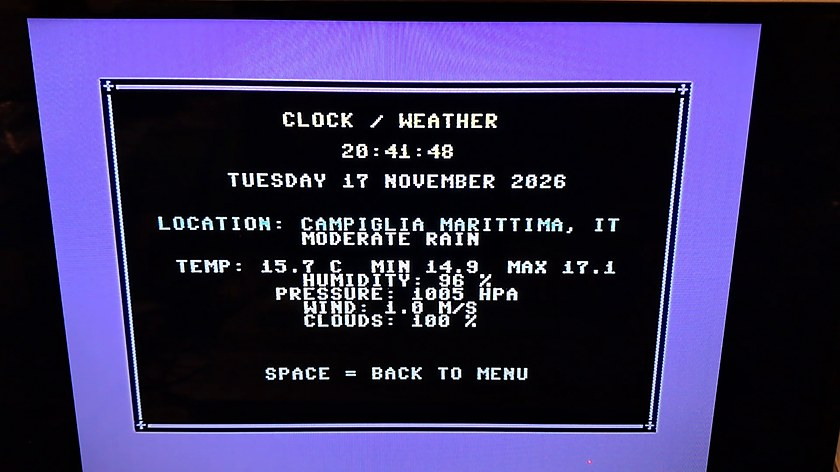
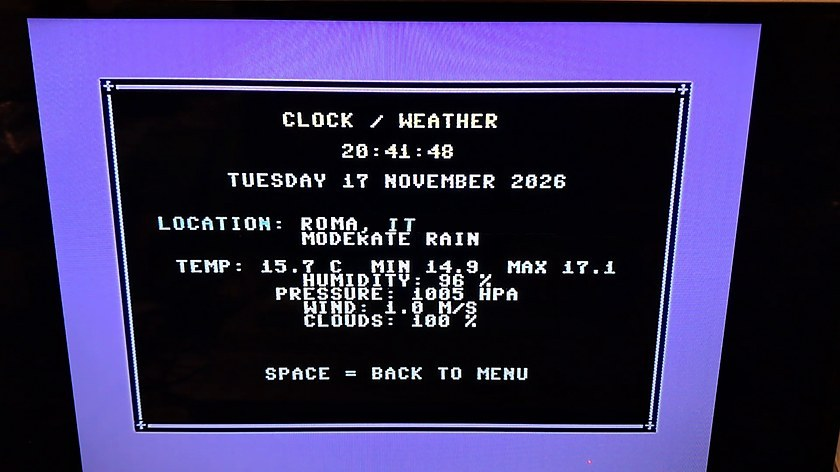
Keep the author's location out of the repository (#2)
lat/lon moved to secrets.h (openweatherLat/Lon) with a graceful skip when unset, secrets.example.h and README updated, weather screenshot city name replaced, PROJECT_STATE next steps refreshed.

Changed region(s): [[0.3405, 0.4449, 0.681, 0.5042], [0.7119, 0.4449, 0.7429, 0.5042]]

diff --git a/c64esp32Cart/secrets.example.h b/c64esp32Cart/secrets.example.h
@@ -1,7 +1,17 @@
 #pragma once
 
 // Copiare questo file in secrets.h e inserire i propri dati.
+// secrets.h NON va committato (e' in .gitignore).
+
+// --- WiFi (opzionale: senza WiFi il menu funziona, mancano solo NEWS/meteo)
 const char *ssid = "YOUR_WIFI_SSID";
 const char *password = "YOUR_WIFI_PASSWORD";
+
+// --- OpenWeather: https://openweathermap.org/api (piano Current Weather)
 String openweatherApiKey = "YOUR_OPENWEATHER_API_KEY";
+// Coordinate della localita' in gradi decimali (es. Roma: 41.9028, 12.4964)
+String openweatherLat = "xxxxx";
+String openweatherLon = "xxxxx";
+
+// --- NewsAPI: https://newsapi.org (serve solo per la fonte "NewsAPI")
 String newsApiKey = "YOUR_NEWSAPI_KEY";

diff --git a/PROJECT_STATE.md b/PROJECT_STATE.md
@@ -242,28 +242,38 @@ EPROM invia comunque il comando 112 appena possibile.
 ### EPROM bootstrap
 - `bootstrap.asm` produce `c64esp8kBOOT.bin` 8192 byte.
 - Il C64 parte dalla EPROM a `$8000` (CBM80).
-- `coldstart` inizializza; `warmstart` copia un loader di 344 byte
-  (`BOOT_LEN=$158`) a `$C000`.
+- `coldstart` inizializza; `warmstart` copia un loader di 338 byte
+  (`BOOT_LEN=$152`) a `$C000`.
 - Il loader:
   1. imposta il vettore NMI;
   2. invia comando 112 → EXROM alto;
   3. invia il nome `espnewsauto.prg` (screen code) con comando 51;
   4. carica il PRG con comando 53 a `$0801`;
   5. chiede l'entry point con comando 60;
-  6. `$01=$37`, CLR/relink, salta all'entry (stub BASIC `SYS 2061`).
+  6. `$01=$37` e salta all'entry (stub BASIC `SYS 2061`) **senza** chiamare
+     `CLR`/relink BASIC: il coldstart da cartuccia non inizializza i
+     puntatori BASIC e quelle chiamate mandavano il loader in crash
+     (trovato e corretto il 2026-11-17 su hardware reale).
 - Il PRG caricato copia il payload completo a `$C000` e sovrascrive il loader.
 - La EPROM non contiene più il menu completo: si aggiorna solo la SD.
+- Build di debug: `acme -DDBGBOOT=1 -o c64esp8kBOOT_dbg.bin bootstrap.asm`
+  (marker `2`..`6`, dump a `$0801`, entry point, checksum, attesa tasto).
 
 ---
 
 ## Test da fare / prossimi passi
 
-1. **Bootstrap su hardware reale**:
-   - programmare la 27C512 con `c64esp8kBOOT.bin` nel banco corretto;
-   - accendere e verificare che EXROM venga alzato e che `espnewsauto.prg`
-     parta dalla root della SD;
-   - se non parte, controllare: comando 112 nel firmware, file sulla SD,
-     temporizzazione EXROM, banco EPROM.
+**Fatto (2026-11-17):** bootstrap provato su hardware reale, EPROM programmata
+(`W27C512_c64esp8kBOOT.bin`, bootstrap negli 8 banchi) e verificata; menu
+avviato dal bootstrap; PR #1 `pi-work → main` mergiata con squash (`2a27359`)
+e `pi-work` riallineato a `main`.
+
+1. **Fix cosmetico lista directory**: nella directory i caratteri `_` dei nomi
+   file vengono mostrati come `←` (es. `all←gif←koa←split` invece di
+   `all_gif_koa_split`). Causa: `asciiToPET()` in `c64esp32Cart.ino` lascia
+   passare ASCII `$5F`, che in PETSCII è la freccia sinistra. Mappare `_` su
+   `$A4` (underscore PETSCII) o ripiegare su `-`; verificare a schermo su
+   hardware reale, poi ricompilare e riflashare l'ESP32.
 2. Verificare uscita dal player SID con SPACE: il menu deve riapparire subito
    senza caratteri casuali.
 3. Verificare directory F1/F7: la seconda pagina deve partire dalla riga
@@ -276,7 +286,10 @@ EPROM invia comunque il comando 112 appena possibile.
    - risposta N al SID: nessun SID in sottofondo.
 5. Verificare Supermon: schermo pulito, nessuna sovrapposizione col menu.
 6. Verificare che i nomi file lunghi non mandino più a capo la directory.
-7. Solo dopo i test: PR finale `pi-work → main`.
+7. Manca uno screenshot reale della schermata HELP (`docs/screenshots/`).
+8. Repository reso pubblico: prima di pubblicare controllare la storia Git
+   (le vecchie credenziali WiFi/API key sono ancora nei commit passati) e
+   ruotare le chiavi.
 
 ---
 
@@ -296,8 +309,10 @@ EPROM invia comunque il comando 112 appena possibile.
 
 ## Git
 
-- Branch: `pi-work`.
+- `main`: stabile. Contiene il merge (squash) della PR #1, commit `2a27359`.
+- `pi-work`: branch di sviluppo, riallineato a `main` dopo il merge.
 - Push di sviluppo: `git push origin pi-work`.
+- Storia: la cronologia dettagliata pre-squash è nel PR #1 su GitHub.
 - Non committare mai `c64esp32Cart/secrets.h` né `firmware_backup/`.
 - I binari di build nella root sono in `.gitignore` (incluso
   `c64esp8kBOOT.bin`); i sorgenti e questo riepilogo sì.

diff --git a/README.md b/README.md
@@ -212,6 +212,9 @@ All pictures below are **real captures of the cartridge running on a C64**
 > Missing a real photo for a screen? `tools/render_menu.py docs/renders`
 > writes fallback renders of the ESP32 templates (same texts, colours and
 > layout) into that folder.
+>
+> In the CLOCK/WEATHER capture the city name was replaced with a neutral one
+> ("ROMA") so the author's location is not published.
 
 ---
 
@@ -341,6 +344,8 @@ cp c64esp32Cart/secrets.example.h c64esp32Cart/secrets.h
 const char *ssid = "YOUR_WIFI_SSID";
 const char *password = "YOUR_WIFI_PASSWORD";
 String openweatherApiKey = "YOUR_OPENWEATHER_API_KEY";
+String openweatherLat = "xxxxx";   // latitudine in gradi decimali
+String openweatherLon = "xxxxx";   // longitudine in gradi decimali
 String newsApiKey = "YOUR_NEWSAPI_KEY";
 ```
 
@@ -355,9 +360,12 @@ http://api.openweathermap.org/data/2.5/weather?lat=<LAT>&lon=<LON>&units=metric&
 ```
 
 - `units=metric` -> temperature in °C, wind in m/s, pressure in hPa;
-- **latitude and longitude live in the firmware**, not in `secrets.h`:
-  `String lat = ...; String lon = ...;` at the top of
-  `c64esp32Cart/c64esp32Cart.ino`.
+- **latitude and longitude go in `secrets.h`** (`openweatherLat` /
+  `openweatherLon`, decimal degrees, e.g. Rome `41.9028` / `12.4964`) so the
+  position never ends up in the repository;
+- if they are left as `xxxxx` the firmware only logs
+  `Meteo: lat/lon non configurate in secrets.h` and the weather screen shows
+  `WIFI NOT CONNECTED` / no data — WiFi, SD and the rest keep working.
 
 From the JSON response the firmware uses `weather[0].description`, `name`,
 `sys.country`, `main.temp/temp_min/temp_max/humidity/pressure`, `wind.speed`
